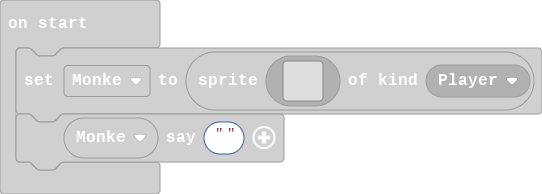
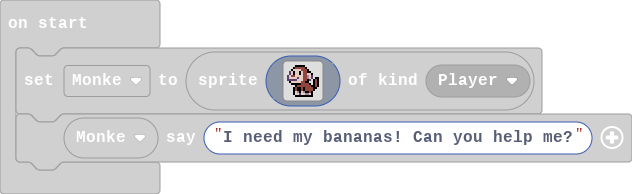
Update main.blocks, main.ts

diff --git a/main.ts b/main.ts
@@ -1,19 +1,19 @@
 let Monke = sprites.create(img`
-    . . . . . . . . . . . . . . . . 
-    . . . . . . . . . . . . . . . . 
-    . . . . . . . . . . . . . . . . 
-    . . . . . . . . . . . . . . . . 
-    . . . . . . . . . . . . . . . . 
-    . . . . . . . . . . . . . . . . 
-    . . . . . . . . . . . . . . . . 
-    . . . . . . . . . . . . . . . . 
-    . . . . . . . . . . . . . . . . 
-    . . . . . . . . . . . . . . . . 
-    . . . . . . . . . . . . . . . . 
-    . . . . . . . . . . . . . . . . 
-    . . . . . . . . . . . . . . . . 
-    . . . . . . . . . . . . . . . . 
-    . . . . . . . . . . . . . . . . 
-    . . . . . . . . . . . . . . . . 
+    . . . . f f f f f . . . . . . . 
+    . . . f e e e e e f . . . . . . 
+    . . f d d d d e e e f . . . . . 
+    . c d f d d f d e e f f . . . . 
+    . c d f d d f d e e d d f . . . 
+    c d e e d d d d e e b d c . . . 
+    c d d d d c d d e e b d c . f f 
+    c c c c c d d d e e f c . f e f 
+    . f d d d d d e e f f . . f e f 
+    . . f f f f f e e e e f . f e f 
+    . . . . f e e e e e e e f f e f 
+    . . . f e f f e f e e e e f f . 
+    . . . f e f f e f e e e e f . . 
+    . . . f d b f d b f f e f . . . 
+    . . . f d d c d d b b d f . . . 
+    . . . . f f f f f f f f f . . . 
     `, SpriteKind.Player)
-Monke.sayText("")
+Monke.sayText("I need my bananas! Can you help me?")
